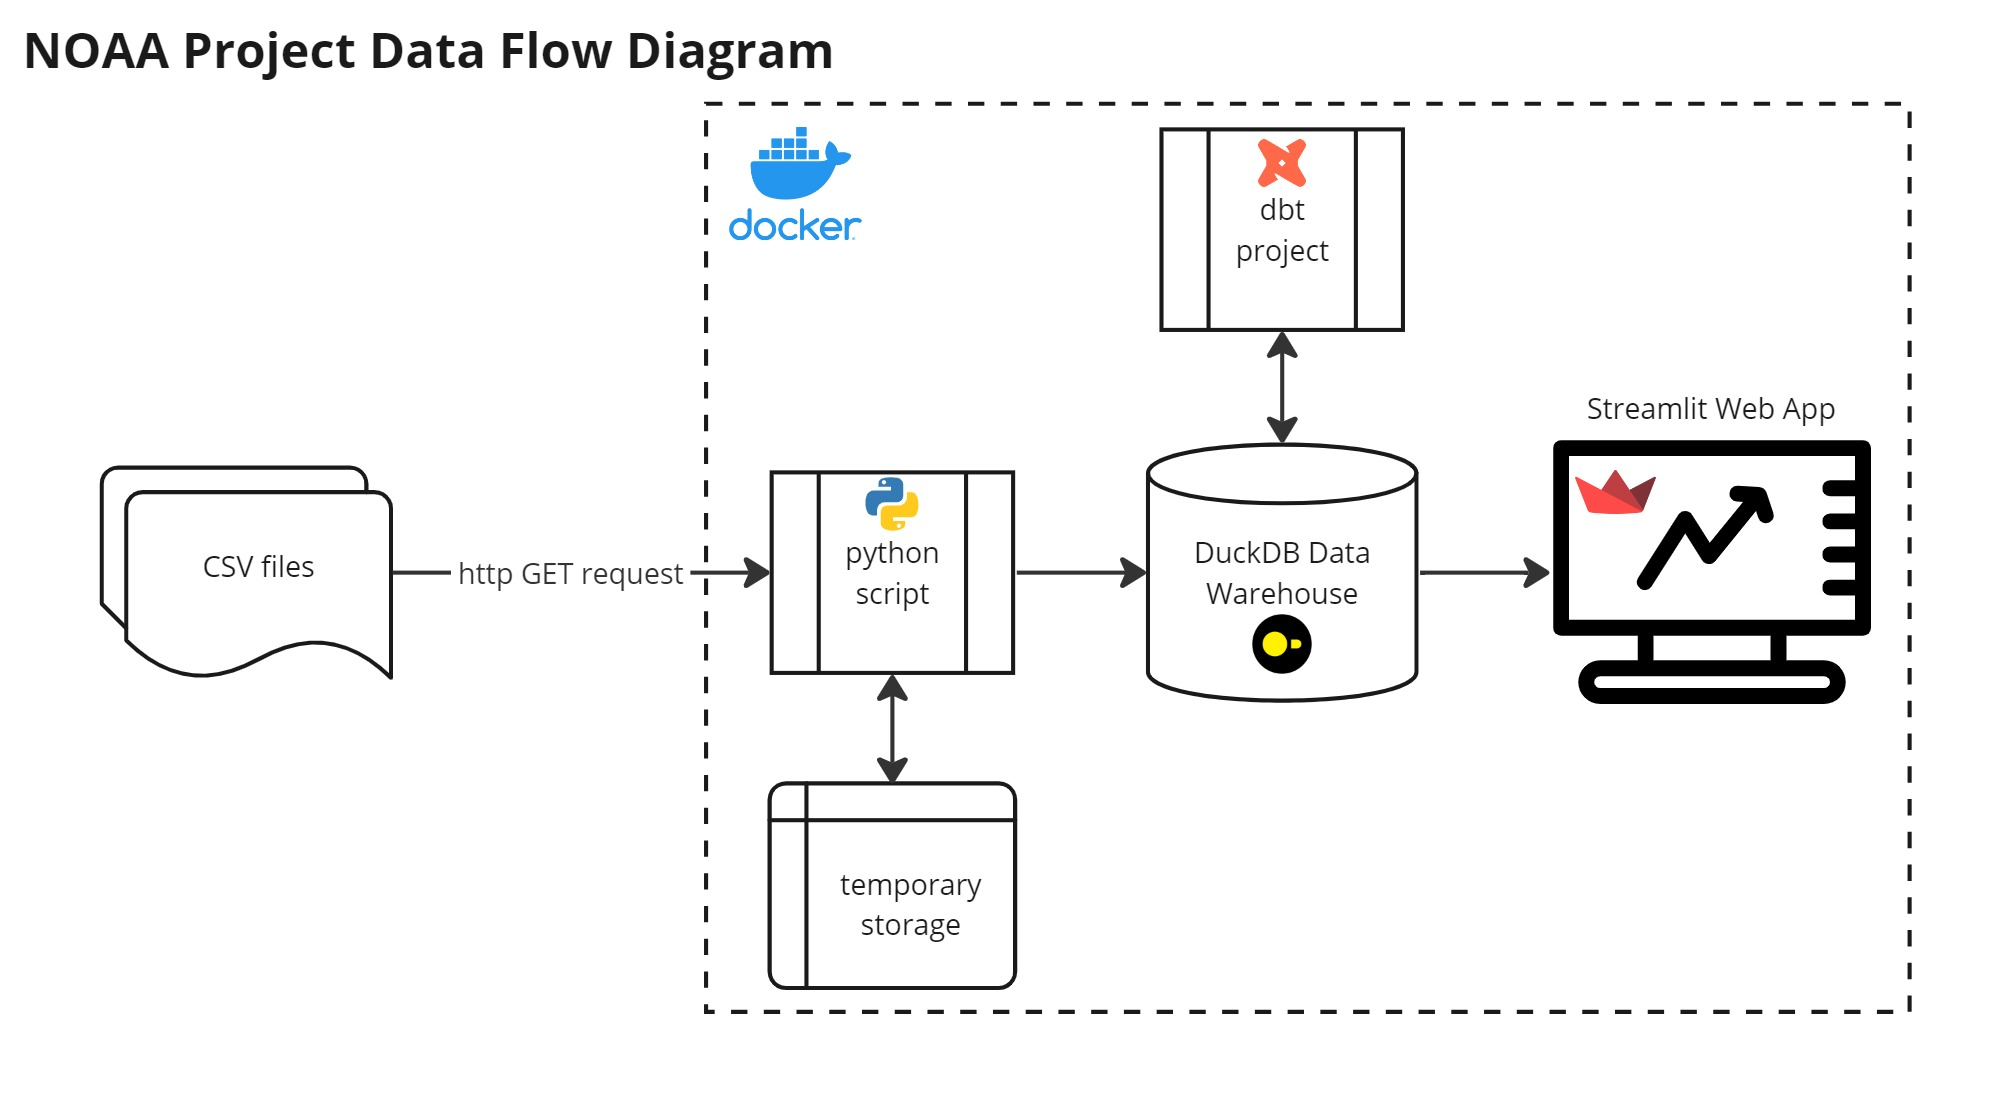
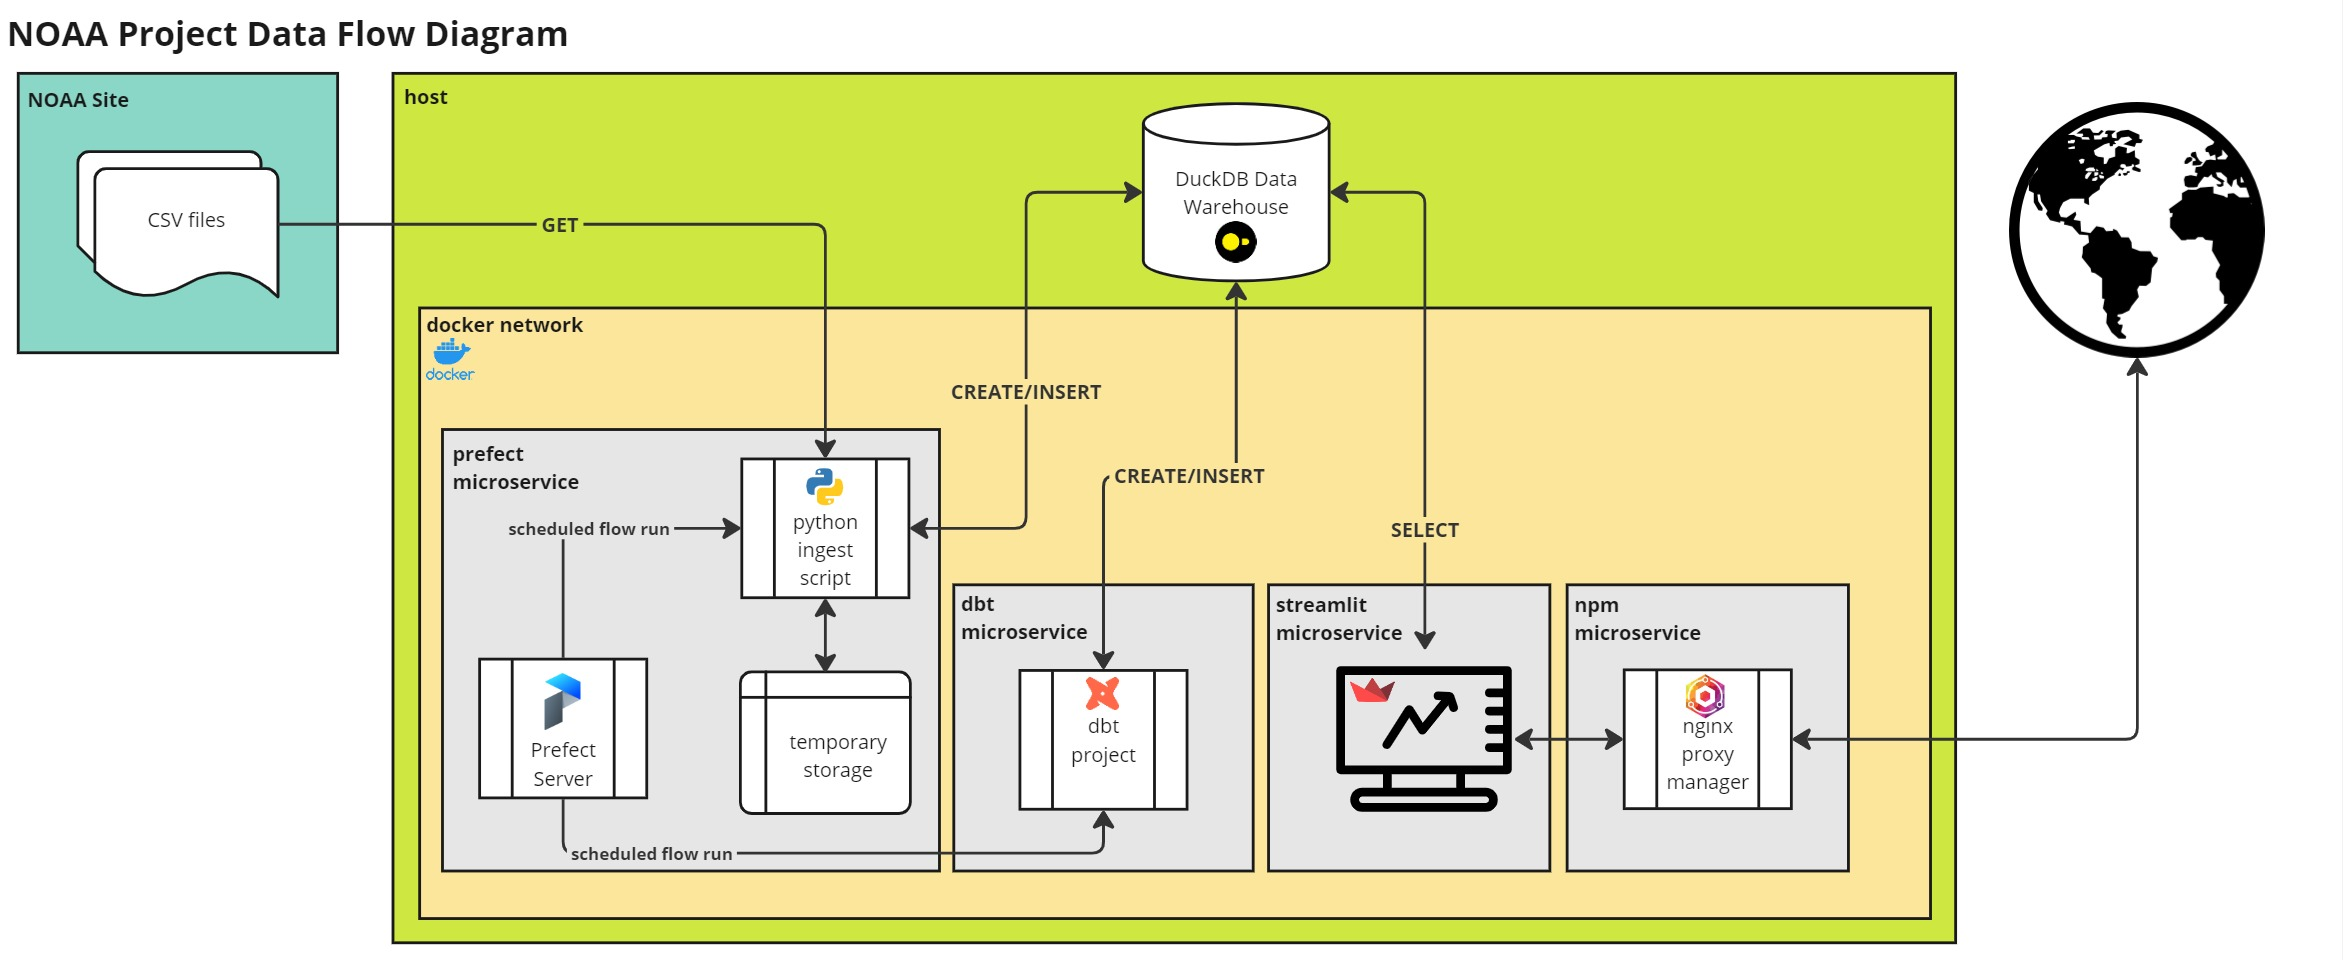
updated readme

diff --git a/README.md b/README.md
@@ -1,37 +1,14 @@
 # NOAA MRIP Data Project
 
-## Table of Contents
-- [NOAA MRIP Data Project](#noaa-mrip-data-project)
-  - [Table of Contents](#table-of-contents)
-  - [Introduction](#introduction)
-  - [Approach](#approach)
-  - [How to Run this Project](#how-to-run-this-project)
-  - [Project Steps](#project-steps)
-    - [Extract \& Load (EL)](#extract--load-el)
-    - [Transform (T)](#transform-t)
-      - [Models](#models)
-      - [Analyses](#analyses)
-      - [Seeds](#seeds)
-      - [Macros](#macros)
-      - [Tests](#tests)
-    - [Orchestration](#orchestration)
-    - [Web Application for Visualizations](#web-application-for-visualizations)
-    - [Deploying Project](#deploying-project)
-  - [Conclusion](#conclusion)
-  - [Future Considerations](#future-considerations)
-    - [Machine Learning](#machine-learning)
-  - [References](#references)
-
 ## Introduction
 NOAA Fisheries’ Marine Recreational Information Program (MRIP) conducts annual recreational saltwater fishing surveys at the national level to estimate total recreational catch.  This data is used to assess and maintain sustainable fish stocks.  Survey data is available from 1981 to 2023.
 
-In this project, survey data will be extracted from an NOAA website and loaded into a data warehouse.  This data will then be transformed as needed to be ready for reporting & analytics.  A Streamlit app will be used to interact with the transformed data and generate insights.
+In this project, survey data will be extracted from an NOAA website and loaded into a data warehouse.  This data will then be transformed as needed to be ready for reporting & analytics.  A web app will be used to interact with the transformed data and generate insights.
 
 ## Approach
 An end-to-end data product will be built consisting of extracting, loading, and transforming (ELT) of raw data to generating dynamic and interactive visualizations on a web application.  The high level data flow, with technologies used, can be seen below:
 
 ![Alt text](images/noaa_project_data_flow_diagram.jpg)
-***update image to show prefect***
 
 ## How to Run this Project
 1. Go to directory where repo will be cloned to
@@ -48,66 +25,40 @@ An end-to-end data product will be built consisting of extracting, loading, and 
    - *Default year range is from 2018-2023 to have quicker loading time ~ 5 minutes.*
 7. Quick run dbt flow from Deployments
    - *Running all models will take about 5 minutes.*
-8. Start streamlit app by opening new shell inside the container
-   - `docker exec -it noaa-app bash`
-   - `streamlit run app/app.py`
-9.  Visit streamlit app at http://localhost:8501
-10. DBT docs can be seen by opening new shell in container and running following commands:
-    - Open new shell inside container
-    - `docker exec -it noaa-app bash`
-    - `cd dbt_transforms`
-    - `dbt docs generate`
-    - `dbt docs serve`
-11. Visit dbt docs at http://localhost:8080
+8.  Visit streamlit app at http://localhost:8501
+9.  Visit dbt docs at http://localhost:8080
 
 ## Project Steps
 ### Extract & Load (EL)
-Survey data is stored at https://www.st.nmfs.noaa.gov/st1/recreational/MRIP_Survey_Data/CSV/.  Data is stored as csv files inside zip folders cataloged by year and wave (if multiple survey were taken that year).  Python script **ingest_noaa.py** will handle the extract and load (EL) of the data.  The EL pipeline consists of the following general steps:
+Survey data is stored at:
+
+ https://www.st.nmfs.noaa.gov/st1/recreational/MRIP_Survey_Data/CSV/.  
+ 
+ Data is stored as csv files inside zip folders cataloged by year and wave (if multiple survey were taken that year).  Python script **ingest_noaa.py** will handle the extract and load (EL) of the data.  The EL pipeline consists of the following general steps:
 
 1. GET request to retrieve folders named by year and wave
 2. Unzip folders to extract csv files
-3. Copy csv files to /tmp folder in main project directory
-4. Write pandas dataframes to tables (1-to-1 relationship) in a persistent **DuckDB** schema named **raw**
-- To be memory efficient each individal csv file is processed with the help of the **DLT** python library.
+3. Copy csv files to **/tmp** folder in main project directory
+4. INSERT pandas dataframes into appropriate tables within a persistent **DuckDB** schema named **raw**
+    - To be memory efficient each individal csv file is processed with the help of the **DLT** python library.
 
 ### Transform (T)
-After loading the source data into **DuckDB**, data models were created to transform the raw data to feature rich data in a separate schema named **analytics** using **dbt**.  Tests and documentation were also created for the dbt project.
-
-#### Models
-- Staging
-- Intermediate
-- Marts
-
-#### Analyses
-
-#### Seeds
-
-#### Macros
-
-#### Tests
-
-See dbt docs for more in-depth details
+After loading the source data into **DuckDB**, data models were created to transform the raw data to feature rich data in a separate schema named **analytics** using **dbt**.  Documentation for this dbt project can be found at http://localhost:8080.
 
 ### Orchestration
-The ELT pipelines were orchestrated using **Prefect**.
+The ELT pipeline was orchestrated using **Prefect**.  This allow monitoring of tasks and flows within the pipeline and also customization of input data ranges to process. Prefect dashboard can be accessed at http://localhost:4200.
 
 ### Web Application for Visualizations
-A web app was built using **Streamlit** to allow for self serve analytics.  Some interesting observations from the data are the following:
-
-- observation 1
-- observation 2
-
-### Deploying Project
-This project can be run entirely in one container using **Docker**.  This allows for better reproducibility and easier deployment on GCP, where I am hosting the project at https.
-
-## Conclusion
-Summarize project and its importance in fishery health.
+A web app was built using **Streamlit** to allow for self serve analytics.  Web app can be accessed at http://localhost:8501.
 
 ## Future Considerations
-### Machine Learning
-Future implementation could consist of bringing in tidal, weather, lunar data via APIs in conjunction with this survey data to create predictive models on catch success rate.
+Future implementation could consist of bringing in tidal, weather, lunar data via APIs in conjunction with this survey data to create predictive ML models on catch success rate.
 
 ## References
-[About NOAA MRIP](https://www.fisheries.noaa.gov/recreational-fishing-data/about-marine-recreational-information-program)
-
-[NOAA MRIP Survey Data](https://www.st.nmfs.noaa.gov/st1/recreational/MRIP_Survey_Data/CSV/)
+[About NOAA MRIP](https://www.fisheries.noaa.gov/recreational-fishing-data/about-marine-recreational-information-program)  
+[NOAA MRIP Survey Data](https://www.st.nmfs.noaa.gov/st1/recreational/MRIP_Survey_Data/CSV/)  
+[dbt](https://docs.getdbt.com/docs/introduction)  
+[Prefect](https://docs-2.prefect.io/latest/)  
+[dlt](https://dlthub.com/docs/intro)  
+[duckdb](https://duckdb.org/docs/)  
+[streamlit](https://docs.streamlit.io/)  
